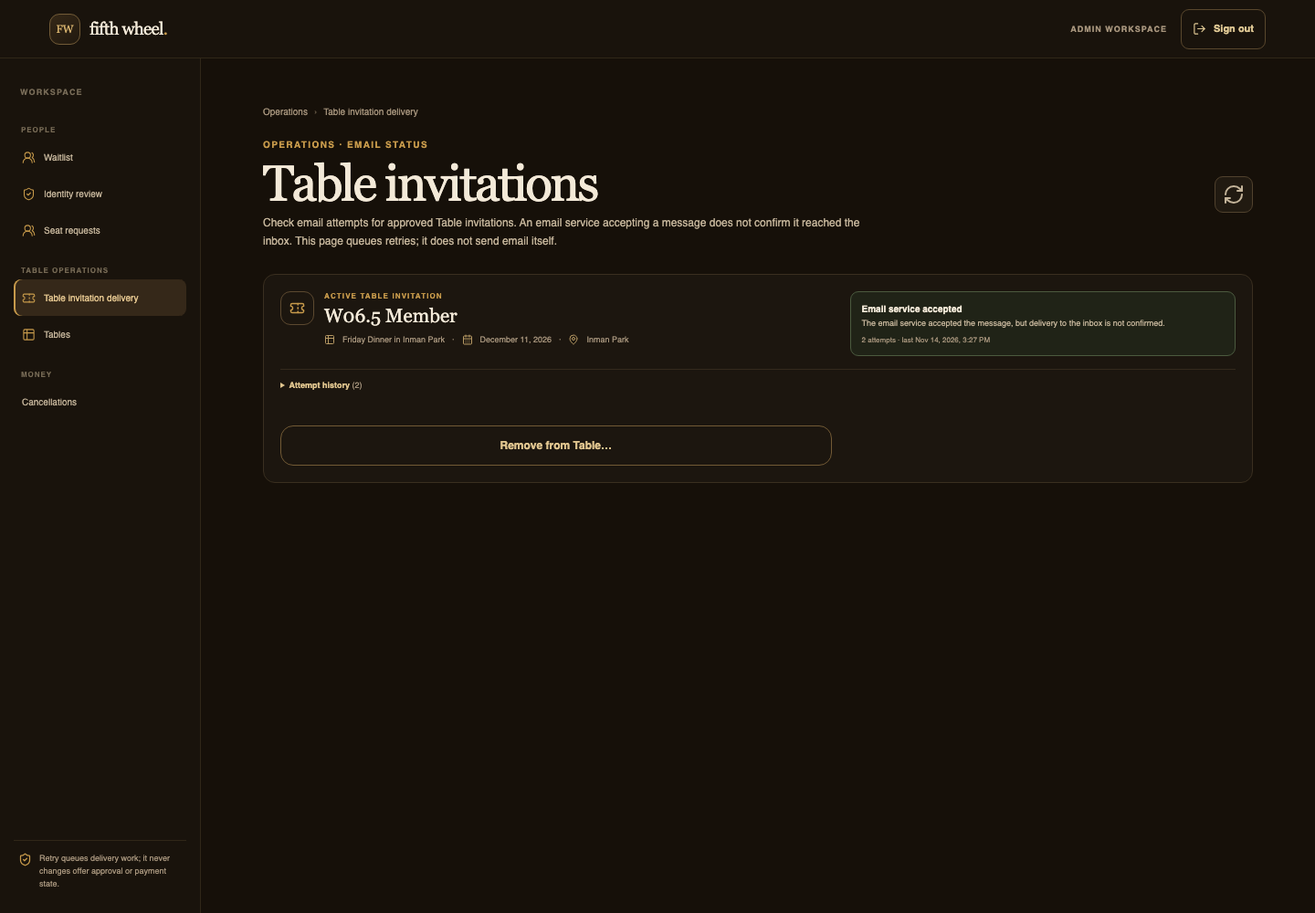
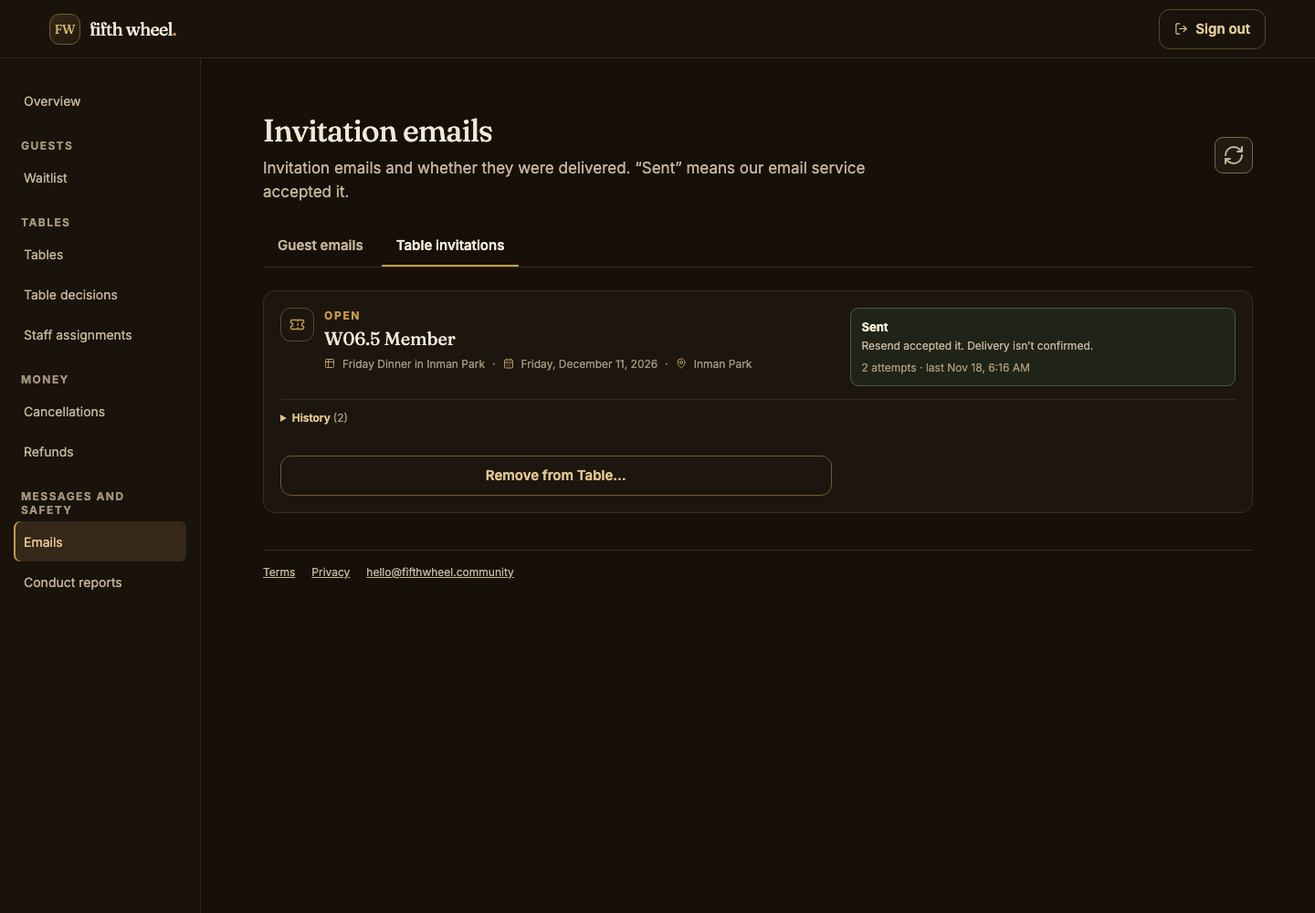
Refresh W06.5 invitation journey evidence

diff --git a/app/tests/browser/w065-table-invitation.spec.ts b/app/tests/browser/w065-table-invitation.spec.ts
@@ -137,19 +137,19 @@ test("W06.5 delivers a separate Table offer through Mailpit and returns a real m
     await expect(admin.getByRole("heading", { name: "Invitation emails" })).toBeVisible();
     const card = admin.locator(".admin-invitation-card").filter({ hasText: tableTitle });
     await expect(card).toHaveCount(1);
-    await expect(card.getByText("Email delivery failed", { exact: true })).toBeVisible();
+    await expect(card.getByText("Not sent", { exact: true })).toBeVisible();
     await card.locator("details.admin-invitation-attempts summary").click();
     await expect(card.getByText("Attempt 1 · failed", { exact: true })).toBeVisible();
     await screenshotPair(admin, "w065-admin-failed-delivery", async () => {
       await admin.goto(`${appOrigin}/admin/table-invitations`);
       const screenshotCard = admin.locator(".admin-invitation-card").filter({ hasText: tableTitle });
-      await expect(screenshotCard.getByText("Email delivery failed", { exact: true })).toBeVisible();
+      await expect(screenshotCard.getByText("Not sent", { exact: true })).toBeVisible();
       await screenshotCard.locator("details.admin-invitation-attempts summary").click();
       await expect(screenshotCard.getByText("Attempt 1 · failed", { exact: true })).toBeVisible();
     });
 
     await card.getByRole("button", { name: "Send again" }).click();
-    await expect(admin.getByText(/A new email attempt is queued/i)).toBeVisible();
+    await expect(admin.getByText("Queued to send again.", { exact: true })).toBeVisible();
     await expect(card.getByText("Waiting to send", { exact: true })).toBeVisible();
 
     // The one-shot poller can only run when the synthetic outbox is the sole eligible row.
@@ -167,11 +167,11 @@ test("W06.5 delivers a separate Table offer through Mailpit and returns a real m
     if (!tableLink || tableLink.searchParams.get("returnTo") !== invitePath || /token_hash|auth\/callback/i.test(allMessageText(invitationMail))) {
       throw new Error("Table invitation email did not contain the expected separate sign-in continuation");
     }
-    expect(allMessageText(invitationMail)).toContain("separate Table offer");
+    expect(allMessageText(invitationMail)).toContain("Pay to confirm your seat.");
 
     await admin.reload();
     const acceptedCard = admin.locator(".admin-invitation-card").filter({ hasText: tableTitle });
-    await expect(acceptedCard.getByText("Email service accepted", { exact: true })).toBeVisible();
+    await expect(acceptedCard.getByText("Sent", { exact: true })).toBeVisible();
     await acceptedCard.locator("details.admin-invitation-attempts summary").click();
     await expect(acceptedCard.getByText("Attempt 2 · accepted", { exact: true })).toBeVisible();
     await expect(acceptedCard.getByRole("button", { name: "Send again" })).toHaveCount(0);
@@ -186,7 +186,7 @@ test("W06.5 delivers a separate Table offer through Mailpit and returns a real m
     expect(JSON.stringify(adminJson)).not.toContain(providerMessageId);
     await screenshotPair(admin, "w065-admin-accepted-delivery", async () => {
       await admin.goto(`${appOrigin}/admin/table-invitations`);
-      await expect(admin.locator(".admin-invitation-card").filter({ hasText: tableTitle }).getByText("Email service accepted", { exact: true })).toBeVisible();
+      await expect(admin.locator(".admin-invitation-card").filter({ hasText: tableTitle }).getByText("Sent", { exact: true })).toBeVisible();
     });
 
     const memberContext = await localContext(browser);
@@ -204,8 +204,7 @@ test("W06.5 delivers a separate Table offer through Mailpit and returns a real m
       await member.getByRole("button", { name: "Continue", exact: true }).click();
       await member.waitForURL(invitationUrl, { timeout: 20_000 });
       await expect(member.getByRole("heading", { name: tableTitle })).toBeVisible();
-      await expect(member.getByText("Email service accepted", { exact: true })).toHaveCount(2);
-      await expect(member.getByText("Email service accepted", { exact: true }).first()).toBeVisible();
+      await expect(member.getByText("Resend accepted it", { exact: false })).toHaveCount(0); // delivery status is staff-only
       await expect(member.getByRole("heading", { name: "Evening itinerary" })).toBeVisible();
       await expect(member.getByText("Test Bar")).toBeVisible();
       await expect(member.getByText(/PRIVATE W06\.5/)).toHaveCount(0);
@@ -227,7 +226,7 @@ test("W06.5 delivers a separate Table offer through Mailpit and returns a real m
       await member.goto(`${appOrigin}/member`);
       await expect(member.getByRole("heading", { name: `You’re invited to ${tableTitle}` })).toBeVisible();
       await expect(member.getByRole("link", { name: /Review invitation/ })).toHaveAttribute("href", invitePath);
-      await expect(member.getByText("Email provider accepted", { exact: false })).toHaveCount(0);
+      await expect(member.getByText("Resend accepted it", { exact: false })).toHaveCount(0);
       const historyResponse = await member.request.get(`${appOrigin}/api/me/requests?limit=20`);
       expect(historyResponse.status()).toBe(200);
       const historyJson = await historyResponse.json();

diff --git a/app/docs/implementation/task-ledger.md b/app/docs/implementation/task-ledger.md
@@ -10,7 +10,7 @@ Source: [W00–W12](../tasks-checklist.md). Status values: `not started`, `imple
 | W03 Marketing waitlist, admin app invitation and magic-link home | accepted | Liza / Finn / Relay / Sentry | Admission-slice gate passed on the isolated test app/Supabase/Mailpit. The guarded W03 browser journey passed (1/1, 57.3s): complete marketing-row and server `received_at` assertions; duplicate immutability; honeypot, under-21 and age-121 no-row/no-admission/no-delivery; deleted/waiting/unknown-neutral request responses; returning-link cooldown with one email; UI operation UUID replayed concurrently three times with one admission/delivery/attempt; caller-identity tamper rejection; real intercepted admin/member links; wrong-session 409, sign-out and redemption of the same link; member home/refresh/sign-out/return; failed → unknown → exact-message reconciliation; role denials; safe internal shared-Table continuation and redirect clamps. The dedicated local Auth expiry runner also passed 1/1 using the real intercepted link after a temporary 2-second expiry. Test stack was restored exactly to OTP 3600 with no run-scoped rows. `pnpm test` passed 123/123 at the W03 checkpoint; later integrated suite passes are recorded under current slices. `pnpm typecheck`, `pnpm build`, local Supabase target self-check and client secret scan passed. Six screenshots are saved in `docs/implementation/screenshots/`. W03.1–W03.7 and A26–A31 are accepted; A30's shared-Table continuation is now also accepted through W06.1 and W06.5a browser evidence. Broader whole-app accessibility and later profile, request, Seat and post-night states remain assigned to their owning slices. A prior unguarded hosted waitlist POST got no HTTP response; it was not retried. All acceptance runs described here were local-only. |
 | W04 Member profile and identity review | implementing | Finn / Relay | Local end-to-end member profile save → private photo/selfie upload → submit → admin current-review/evidence read → correction request → attempt-2 resubmission → approval → returning-member status is verified. The browser run also covers all seven non-empty preference sets, rejects empty selection, validates the 21–120 range and shows inverted-range errors. The updated DB harness passes preference-only revision, audited file-set checks, stale-decision rejection after a critical edit, current review resubmission/approval, and version-safe evidence retention. A PostgREST retry loop was traced to application conflicts raised as SQLSTATE `40001`; additive migration `20261112194713` changes the 12 W04 domain-conflict RPCs to non-retryable `P0001` while preserving stable messages. `node scripts/test-profile-foundation.mjs` passes. `node scripts/run-w04-browser.mjs` passes 2/2, including the real stale-review UI conflict and anonymous denials; the runner removes its exact synthetic fixtures. Screenshots: `w04-profile-desktop.png`, `w04-profile-390px.png`, `w04-profile-submitted-desktop.png`, `w04-profile-correction-requested-desktop.png`, `w04-admin-identity-queue-desktop.png`, `w04-admin-review-detail-desktop.png`. Remaining: DOB/leap-day boundary cases, cross-owner/host/restaurant data/storage probes, cleanup worker boundary/recovery, and accessibility at 320px/keyboard/zoom. See [W04 slice report](w04-slice-report.md). |
 | W05 Airtable supply and admin Table management | implementing | Finn / Relay | W05.1–W05.3 are checked in the [task checklist](../tasks-checklist.md); W05.4 remains open. The guarded W05 browser suite passes 3/3: sync, management and weekly preview/clone/reload/history/undo, including a committed clone response lost in the browser then recovered after clearing session storage via durable history. The expanded rollback-only W05.3 DB harness passes Monday–Sunday date shifts, role/grant controls, idempotency/pagination, multi-item partial conflict, duplicate marker rejection, uncertain create/delete recovery, bound undo keys, activity/changed-record refusal, captured snapshot completion after a concurrent source edit, and exact rollback. Independent contract review found and drove fixes for lost-delete recovery with a still-present marker, undo key/request binding, and source-edit race handling, plus the earlier FK cleanup corrections. Additive migrations through `20261113042200` are applied only to verified `fifthwheel-rewrite-test`, without reset. A new rollback-only management case exercises the activity latch: schedule and venue changes fail without consuming operations or moving pointers, while a cosmetic correction succeeds and is audited. **W06/W07 dependency:** Table invitation relations now exist, but the paid Seat schema does not yet. Actual invitation/Seat-derived activity wiring and paid-runtime invariants remain to be implemented and proven across W06/W07. Provider contract is in [w05-supply-contract.md](w05-supply-contract.md); Airtable names/fields and credentials are unverified, so development remains synthetic-only and live reads/writes disabled. Existing sync/management evidence covers malformed/partial non-inference, missing/reappearance and pointer protection, idempotency, stale conflict, host scope and rollback cleanup. Weekly screenshots: [preview desktop](screenshots/w05-weekly-clone-preview-desktop.png), [preview 390px](screenshots/w05-weekly-clone-preview-390px.png), [clone complete](screenshots/w05-weekly-clone-complete-desktop.png), [undo complete](screenshots/w05-weekly-clone-undone-desktop.png). Full unit/server tests pass 172/172; typecheck, build and `git diff --check` pass. |
-| W06 Browse, Seat requests, curation and Table invitations | implementing | Finn / Relay | W06.1 and request-specific W06.2 are accepted. The frozen [browse/request contract](w06-browse-requests-contract.md) is implemented through member Tables/detail/public shared preview/Requests routes and service-only published-supply/request RPCs. Migration `20261113043146` is applied to isolated `fifthwheel-rewrite-test`. `node scripts/run-w06-browser.mjs` passes 1/1 with filters/empty/reset, request/withdraw/reapply, owner denial, unauthenticated/unadmitted/profile gates and actual local magic-link callback to Table detail; exact synthetic fixtures were removed. `node scripts/test-table-requests-db.mjs` passes rollback-only isolation, grants, DTO privacy, filters/cursors, idempotency, ownership, profile gates, history and supply invariants. W06.3–W06.4 have integrated admin/host queue, roster routes, responsive screens, service-only RPCs and additive migration `20261113055016`; their rollback-only DB harness exposed a cursor bug that skipped the first row on subsequent applicant pages. Tracked SQL is corrected, but applying that function update to the test DB was blocked by automatic review; user authorization is pending, so DB acceptance remains open. A separate mock-only browser check passes 1/1 for queue, applicant validation, named-member approval confirmation and host-without-approval UI; it found and fixed a missing nested route outlet. Screenshots are `screenshots/w06-roster-admin-approval-confirmation-desktop-mock-only.png` and `screenshots/w06-roster-admin-approval-confirmation-390px-mock-only.png`. This check does not prove backend permissions or persistence. W06.5a (Table offer history/detail and delivery retry/reconciliation) passes its rollback-only DB harness and the real guarded browser journey: admin sign-in by intercepted Mailpit magic link, failed attempt history, queued retry, exact one-item guard and local worker, member Table offer email, returning magic-link callback, owner-only invitation detail, pending-request/active-offer history and other-member 404. Privacy DTO/page assertions pass. The fixture INSERT mismatch and collapsed attempt-history assertion were fixed; latest run passed 1/1 in 14.3s and removed exact run-scoped Auth, DB and Mailpit messages. Eight refreshed desktop/390px screenshots are in [W06.5 browser evidence](w06.5-browser-slice-evidence.md). The latest integrated suite is 232/232 (214/214 was a prior checkpoint); typecheck/build and diff checks pass. W06.5b T−48 remains open pending W07's authoritative Seat status and user decision on reminder audience/channel. No hosted target, external email, migration reset or live financial action was used. |
+| W06 Browse, Seat requests, curation and Table invitations | implementing | Finn / Relay | W06.1 and request-specific W06.2 are accepted. The frozen [browse/request contract](w06-browse-requests-contract.md) is implemented through member Tables/detail/public shared preview/Requests routes and service-only published-supply/request RPCs. Migration `20261113043146` is applied to isolated `fifthwheel-rewrite-test`. `node scripts/run-w06-browser.mjs` passes 1/1 with filters/empty/reset, request/withdraw/reapply, owner denial, unauthenticated/unadmitted/profile gates and actual local magic-link callback to Table detail; exact synthetic fixtures were removed. `node scripts/test-table-requests-db.mjs` passes rollback-only isolation, grants, DTO privacy, filters/cursors, idempotency, ownership, profile gates, history and supply invariants. W06.3–W06.4 have integrated admin/host queue, roster routes, responsive screens, service-only RPCs and additive migration `20261113055016`; their rollback-only DB harness exposed a cursor bug that skipped the first row on subsequent applicant pages. Tracked SQL is corrected, but applying that function update to the test DB was blocked by automatic review; user authorization is pending, so DB acceptance remains open. A separate mock-only browser check passes 1/1 for queue, applicant validation, named-member approval confirmation and host-without-approval UI; it found and fixed a missing nested route outlet. Screenshots are `screenshots/w06-roster-admin-approval-confirmation-desktop-mock-only.png` and `screenshots/w06-roster-admin-approval-confirmation-390px-mock-only.png`. This check does not prove backend permissions or persistence. W06.5a (Table offer history/detail and delivery retry/reconciliation) passes its rollback-only DB harness and the real guarded browser journey: admin sign-in by intercepted Mailpit magic link, failed attempt history, queued retry, exact one-item guard and local worker, member Table offer email, returning magic-link callback, owner-only invitation detail, pending-request/active-offer history and other-member 404. Privacy DTO/page assertions pass. The fixture INSERT mismatch and collapsed attempt-history assertion were fixed; latest run passed 1/1 in 15.7s and removed exact run-scoped Auth, DB and Mailpit messages. Eight refreshed desktop/390px screenshots are in [W06.5 browser evidence](w06.5-browser-slice-evidence.md). The latest integrated suite is 232/232 (214/214 was a prior checkpoint); typecheck/build and diff checks pass. W06.5b T−48 remains open pending W07's authoritative Seat status and user decision on reminder audience/channel. No hosted target, external email, migration reset or live financial action was used. |
 | W07 Payment, Seats, cancellation and refunds | implementing | Finn / Relay | W07.1 checkout UI/routes and server holds/recovery are integrated but unaccepted. W07.2 adds signature-verified durable Stripe ingress, owner/session return checks, shared idempotent fulfillment, locked eligibility/capacity recheck, late-charge refund obligations, `payment_unresolved` blocking, confirmed-expiry recovery, and async-failure hold release only after a fresh complete/unpaid Session check. W07.3 now has owner-scoped list/detail/calendar routes, pending-checkout and cancellation-history DTOs, the server-only `SeatStatusReader`, and My Seats list/detail screens. A verified late charge without a Seat appears as “Payment received; refund pending” with support only and no retry. The user-approved acknowledgment/version is `seat-checkout-v1`. W07.4 member/admin screens and five API bindings cover request history, availability, approve/deny and bounded refund choices; member and admin DTOs report terminal Table state for pending requests. The six-case browser suite is intercepted/mock-only and covers active, completed and cancelled outcomes, including state-aware admin queue labels. Backend includes operation replay locking, Table-first resource locks, persisted paid-balance checks, bounded cancellation refund records, invitation revocation on approval, audit and durable decision-notice intent. The guarded rollback-only harness `scripts/test-seat-cancellations-db.mjs` is prepared and syntax-checked, but requires W07 migrations applied and has not run. Its migration remains draft-only; the first local replay attempt was not executed because automatic approval review failed with “Bad Request,” and authorization to retry is pending. No DB/browser permission acceptance or Stripe/email action is part of this slice. Latest integrated checks pass: `pnpm typecheck`, `pnpm test` (275/275), `pnpm build`, prior `git diff --check`, mock-only checkout and My Seats browser suites 4/4 each, and cancellation browser suite 6/6. W07.4 screenshots include active member pending (`w07-cancellation-member-pending-*`), completed/cancelled 390px member states, and admin views (`w07-cancellations-admin-*-mock-only.png`). Echo’s finished-screen language inventory and copy-only edits are in [language inventory](language-inventory-finished-screens.md). W07.5 now adds admin refund queue/detail and member refund-state UI, same-operation retry/reconcile controls, and server-derived dispatchability. Its mock-only browser suite passes 5/5 across all six member obligation states and admin queue/action gates; desktop/mobile mock screenshots are in `screenshots/w07-refunds-*-mock-only.png`. Relay’s service/schema/provider work is in progress. Stripe-confirmed failure with a Refund ID remains non-retryable pending a human policy decision. W07.1–W07.5 migrations remain unapplied; no W07 DB harness, persistence/permission, provider or concurrency acceptance has run against Supabase. The initial W07.4 migration attempt was rejected before execution by automatic approval review, and authorization to retry local-only migration replay is pending. No Stripe request, checkout session, email, charge or refund occurred. Keep checkout readiness false until webhook deployment and operational readiness are verified. W07.1–W07.5 remain unaccepted; W07.6–W07.7 are not started. |
 | W08 Low-fill operations, replacements, attendance and partner workspaces | not started | Finn / Relay | Depends on durable Seat/cancellation contracts and explicit assignments. |
 | W09 Tonight, private vote/reveal, recap and reports | not started | Finn / Relay | Depends on authoritative attendance and time-window contracts. |

diff --git a/app/docs/implementation/acceptance-ledger.md b/app/docs/implementation/acceptance-ledger.md
@@ -28,7 +28,7 @@ Current product scenarios: [A01–A35](../PRD.md). Task ownership/order: [W00–
 | A22 | W02–W10 | implementing | Guarded W03 browser run confirmed anon admin waitlist GET/POST 401 and uninvited verified, admitted member, host and restaurant admin GET/POST 403. Guarded W05 browser run confirmed anon supply GET/POST 401, authenticated non-admin supply GET/POST 403, and authorized admin sync 200. The W06.5 rollback-only DB harness additionally verifies service-only invitation-history RPC grants, no direct table grants, member/host retry denial, cross-member 404 and safe admin delivery DTOs. Broader direct Data API/RPC checks for other feature surfaces remain open. |
 | A23 | W05, W11 | implementing | W05.1 local DB harness proves complete-scan missing-source handling preserves Table lifecycle, source/revision/published pointers, mapping rows, last-good supply and financial/runtime state; accept/publish are blocked without consuming operation IDs, and reappearance clears only sync state with audit. W05.2 UI response fault injection verifies the list/detail warning and retained guest-visible published snapshot. W05.3 DB/browser checks prove draft-only clone, whole-week shift, partial/duplicate-marker recovery, both uncertain delete outcomes, undo idempotency, source snapshot completion after a concurrent edit, and all-or-nothing protected/changed-target refusal. New W05.4 rollback-only DB coverage toggles the activity latch, then verifies schedule/venue edits are refused without operation or pointer mutation while cosmetic edits succeed with audit. Table invitation relations now exist, but paid Seat relations do not; actual invitation/Seat-derived latch wiring and paid-runtime invariants remain open, alongside legacy reconciliation/cutover. |
 | A24 | W11 | not started | |
-| A25 | W01–W12 | implementing | W04 member profile/admin review, W05 supply work and W06 browse/request screens were captured from the integrated local app. W06.3–W06.4 approval confirmation and host view are captured at desktop/390px with intercepted API fixtures; W06.5 also has the newer real guarded browser screenshots for failed/accepted delivery, member invitation detail and request/offer history at desktop/390px. W07.4 adds mock-only cancellation member/admin screens at desktop/390px, including active-seat history and refund decision controls; those captures do not prove persistence. Screens use approved Fraunces/Inter, brown/ivory/gold, warm border and Lucide language. Keyboard-only, 320px, zoom, reduced-motion and full screen-reader/accessibility checks remain open. See `w04-*.png`, `w05-admin-*.png`, `w05-weekly-clone-*.png`, `w06-*`, `w07-cancellation-member-pending-*`, and [W06.5 browser evidence](w06.5-browser-slice-evidence.md). |
+| A25 | W01–W12 | implementing | W04 member profile/admin review, W05 supply work and W06 browse/request screens were captured from the integrated local app. W06.3–W06.4 approval confirmation and host view are captured at desktop/390px with intercepted API fixtures; W06.5 also has the newer real guarded browser screenshots for failed/accepted delivery, member invitation detail and member home at desktop/390px. W07.4 adds mock-only cancellation member/admin screens at desktop/390px, including active-seat history and refund decision controls; those captures do not prove persistence. Screens use approved Fraunces/Inter, brown/ivory/gold, warm border and Lucide language. Keyboard-only, 320px, zoom, reduced-motion and full screen-reader/accessibility checks remain open. See `w04-*.png`, `w05-admin-*.png`, `w05-weekly-clone-*.png`, `w06-*`, `w07-cancellation-member-pending-*`, and [W06.5 browser evidence](w06.5-browser-slice-evidence.md). |
 | A26 | W03, W11 | accepted | Guarded W03 browser journey (1/1, 57.3s) compared every persisted marketing field to a fixed payload, forced stale client `submitted_at`, and asserted server `received_at` fell within the request window. Duplicate and honeypot shared the neutral response; duplicate left the row unchanged and honeypot created no row. Under-21 and matching-age-121 route requests returned 400 and guarded DB queries found no signup/admission/delivery. Atlanta DOB edge cases are covered by validator tests. Legacy cutover/reconciliation remains a separate W11 gate. |
 | A27 | W03 | accepted | Guarded journey captured the admin UI operation UUID, replayed it concurrently three times through the protected API, and returned identical admission/delivery IDs. Local DB query found one admission, one delivery and one initial attempt; Mailpit proxy count remained one before explicit retry. Anonymous GET/POST returned 401; uninvited verified/member/host/restaurant admin GET/POST returned 403; caller-supplied recipient/email/identity/actor fields were rejected with 400 and no admission side effect. Independent RPC harness covers eight-way database concurrency. |
 | A28 | W03 | accepted | Actual intercepted member invitation link activated the named recipient and persisted across refresh; wrong-session use preserved the same link until sign-out, after which the intended member redeemed it. Replay returned safe HTTP 400 recovery without a cookie. Guarded DB snapshot showed one activated admission, one delivery, two delivery attempts and one activation audit event. At the W03 acceptance checkpoint, the test schema had no profile/Table/request/Seat/payment relations and admission created no later-slice side effect. Later W04–W06 migrations now add profile, supply, request, roster and Table-invitation relations; payment/Seat relations remain W07 work. |
@@ -37,7 +37,7 @@ Current product scenarios: [A01–A35](../PRD.md). Task ownership/order: [W00–
 | A31 | W03, W10 | accepted | Guarded browser injected a definitive pre-dispatch rejection (no Mailpit message), showed “Email delivery failed,” and retried. The second attempt stored one local Mailpit invitation while the proxy returned synthetic 503; UI showed unknown and reconciliation found the exact message without a resend. DB snapshot proved exactly two retained attempts (`failed`, then `accepted`), one delivery/admission and one activation event; proxy counters prove one actual message forwarded and one search. Local provider acceptance is not inbox delivery; live provider events and production behavior remain release evidence. |
 | A32 | W03 intake; W04/W06 profile and matching | implementing | W03 preserves the marketing selection set. The W04 browser journey verified the two-group intake prefill, then exercised all seven non-empty preference sets through profile checkboxes, save and reload; empty selection was rejected without persistence. Matching behavior and the full marketing-to-profile combination matrix remain W06/whole-app work. |
 | A33 | W03–W10 | implementing | W03 admitted-home state remains accepted. W04 now shows and persists incomplete, submitted, correction-requested, resubmitted and approved profile states through real routes. W07.4 adds mock-only member cancellation history and active/completed/cancelled request messaging; durable cancellation persistence and refund states remain unverified. Table request, invitation, payment, and post-night states remain open. |
-| A34 | W01–W12 | implementing | W01 visual direction was approved; integrated W04 profile/admin review, W05 supply, W06 browse/request, W06.5 invitations and W07.4 cancellation screens preserve the Fraunces/Inter, brown/ivory/gold, warm borders, styled controls and Lucide treatment. Eight current W06.5 desktop/390px captures show actual failed/accepted delivery and member invitation/request states; W07.4 captures are mock-only. Full side-by-side coverage across representative roles/pages remains open. |
+| A34 | W01–W12 | implementing | W01 visual direction was approved; integrated W04 profile/admin review, W05 supply, W06 browse/request, W06.5 invitations and W07.4 cancellation screens preserve the Fraunces/Inter, brown/ivory/gold, warm borders, styled controls and Lucide treatment. Eight current W06.5 desktop/390px captures show actual failed/accepted delivery, invitation detail and member home states; member captures omit staff-only email delivery status. W07.4 captures are mock-only. Full side-by-side coverage across representative roles/pages remains open. |
 | A35 | W01–W12 | implementing | W04 profile/admin review and W05 supply sync/list/draft/weekly clone are reachable through persistent admin navigation and direct URLs. W06.3–W06.4 mock browser checks reach the nested roster detail and show named-member confirmation; backend roster DB acceptance remains open. W06.5 direct routes were exercised in the real guarded journey: authorized admin delivery recovery, member invitation detail and Requests offer overlay, with another member denied by 404. Whole-app direct-route/role and failure-state audit remains open. See [W06.5 browser evidence](w06.5-browser-slice-evidence.md). |
 
 For each gate, record the exercised route(s), role/fixture, command or manual procedure, result, screenshot path when relevant, and known limitation. Do not mark a scenario accepted from a unit mock alone when the contract calls for a real database/provider/browser path. Keep production evidence marked separately.

diff --git a/app/docs/implementation/w06.5-browser-slice-evidence.md b/app/docs/implementation/w06.5-browser-slice-evidence.md
@@ -12,7 +12,7 @@ From `app/`:
 node scripts/run-w06-table-invitation-browser.mjs
 ```
 
-Result: **1 Playwright test passed in 14.3 seconds.** The runner confirmed the local Supabase project, API/database/Mailpit ports, configured credentials, required migration/RPC, and app port before fixture creation. It created run-scoped synthetic identities and data, then verified that exactly one due Table-invitation outbox item was eligible before invoking the worker. The captured synthetic Table is titled “Friday Dinner in Inman Park” and is dated December 11, 2026.
+Result: **1 Playwright test passed in 15.7 seconds.** The runner confirmed the local Supabase project, API/database/Mailpit ports, configured credentials, required migration/RPC, and app port before fixture creation. It created run-scoped synthetic identities and data, then verified that exactly one due Table-invitation outbox item was eligible before invoking the worker. The captured synthetic Table is titled “Friday Dinner in Inman Park” and is dated December 11, 2026.
 
 ## Verified behavior
 
@@ -21,6 +21,7 @@ Result: **1 Playwright test passed in 14.3 seconds.** The runner confirmed the l
 - The admin sees provider acceptance and attempt 2. The member follows the invitation link, requests a real magic link, completes the callback, and lands on the invitation detail.
 - Member invitation detail is owner-scoped: a different admitted member receives HTTP 404 and an invitation-not-found page.
 - Request history keeps the Seat request pending while presenting the Table invitation as a separate active offer. Withdrawal is unavailable while that offer is active.
+- Member home presents the active Table invitation with a direct “Review invitation” action and does not expose staff-only email delivery status.
 - Member and admin DTO/UI checks found no recipient email, provider message ID, venue ID, or private host notes in the exposed response or member page.
 - The runner cleaned its synthetic Auth, admission, profile, supply Table, request, proposal, invitation, outbox, attempt and audit rows, plus exact run-owned Mailpit message IDs. It reported cleanup complete.
 
@@ -33,7 +34,7 @@ All screenshots are captured from the browser after asserting the relevant route
 - Admin failed delivery: [desktop](screenshots/w065-admin-failed-delivery-desktop.png), [mobile](screenshots/w065-admin-failed-delivery-390px.png)
 - Admin accepted delivery: [desktop](screenshots/w065-admin-accepted-delivery-desktop.png), [mobile](screenshots/w065-admin-accepted-delivery-390px.png)
 - Member invitation detail: [desktop](screenshots/w065-member-invitation-detail-desktop.png), [mobile](screenshots/w065-member-invitation-detail-390px.png)
-- Member request and offer overlay: [desktop](screenshots/w065-member-request-offer-overlay-desktop.png), [mobile](screenshots/w065-member-request-offer-overlay-390px.png)
+- Member home invitation: [desktop](screenshots/w065-member-home-invitation-desktop.png), [mobile](screenshots/w065-member-home-invitation-390px.png)
 
 ## Remaining evidence/dependency
 

diff --git a/app/docs/implementation/language-refactor-plan.md b/app/docs/implementation/language-refactor-plan.md
@@ -65,7 +65,7 @@ Each change in §D has a **type**:
 | 2 | **"Identity" means two things.** "How do you identify?" / "Choose one identity" / "Your identity" mean gender. "Identity review" / "identity details" / "Identity evidence" mean photo-and-selfie verification. "Changes to your identity details need another review" can't be read without knowing both meanings. | profile, admin review | High: affects a sensitive, personal question | Manner |
 | 3 | **Too many names for one person.** Guest-facing: *member, member account, admitted member, admitted account, app member*. Staff-facing: *member, guest, applicant, person, people*. The glossary says **Guest**. The UI says "member" 101 times. | everywhere | High: blocks consistent copy | Manner |
 | 4 | **Too many names for permission to use the app.** *App access, admission, member access, member admission, app invitation, app invite, admin invitation, admitted*. | sign-in, home, entry, waitlist | High | Manner |
-| 5 | **Disclaimer stacking.** One 390px request card shows five status statements ("SEAT REQUEST · STILL PENDING", "SEAT REQUEST · PENDING", "Active", "Your invitation is open", "Email provider accepted") plus two "this is separate" sentences (screenshot `w065-member-request-offer-overlay-390px.png`). | requests, Table detail, home, callback, invitation | High: hides the one thing to do next ("pay for your Seat") | Quantity, Relation |
+| 5 | **Disclaimer stacking.** One 390px request card showed five status statements ("SEAT REQUEST · STILL PENDING", "SEAT REQUEST · PENDING", "Active", "Your invitation is open", "Email provider accepted") plus two "this is separate" sentences. The original capture was removed when the W06.5 member home state was refreshed; see the current [member home screenshot](screenshots/w065-member-home-invitation-390px.png). | requests, Table detail, home, callback, invitation | High: hides the one thing to do next ("pay for your Seat") | Quantity, Relation |
 | 6 | **Email delivery status is shown to guests.** Guests reading their invitation *in the app* are told "Email provider accepted. Inbox delivery is not confirmed." That's operational data with no guest action attached. | requests, invitation detail | Medium–High | Relation |
 | 7 | **Three vocabularies for email status.** *Provider accepted / Email service accepted / Accepted by email service*. *Outcome unknown / Status unclear / Unconfirmed*. *Delivery pending / Email queued*. | member requests, admin invitations, waitlist, email problems | Medium | Manner |
 | 8 | **Engineering terms on admin screens.** For example: "Retry will reuse the same operation ID", "provider idempotency key", "Reconcile this exact operation", "provider marker reconciliation", "guest read model", "durable refund ledger", "Synthetic local provider fixture", "Ask engineering to run the finalizer", "check the scheduler". | supply, weekly copy, refunds, overview | High for supply and refunds (daily staff work) | Relation, Manner |
